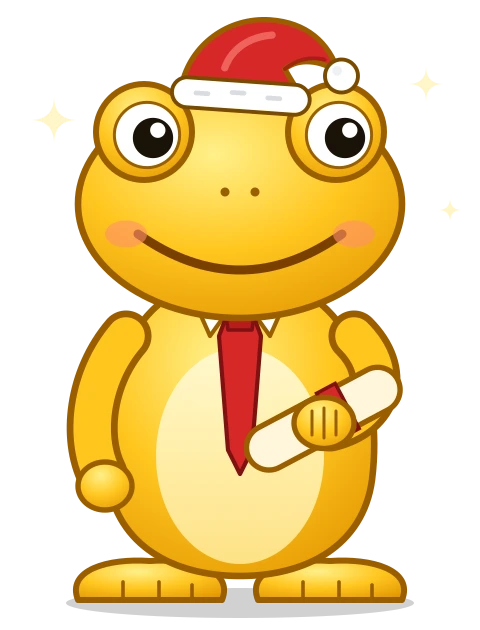
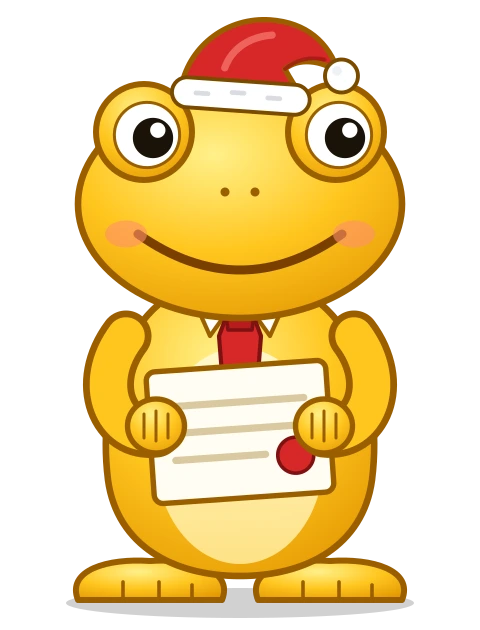
feat: small mascot holding a paper with both hands

diff --git a/backend/scripts/gen-popup-mascot.ts b/backend/scripts/gen-popup-mascot.ts
@@ -1,6 +1,6 @@
 /**
- * Dựng ảnh Cóc Pass đứng thẳng, đội nón Noel, thắt cà vạt, tay cầm cuộn bằng (dáng giống tượng linh vật FPT): frontend/public/promo/mascot-corner.webp (nền trong suốt).
- * Đế chân nằm ở y = FEET_Y (toạ độ ảnh 160x210): popup đặt ảnh sao cho đế chân đứng đúng trên mép trên của hộp thoại.
+ * Dựng ảnh Cóc Pass đứng thẳng, đội nón Noel, thắt cà vạt, hai tay giữ tờ giấy (dáng giống tượng linh vật FPT): frontend/public/promo/mascot-corner.webp (nền trong suốt).
+ * Đế chân nằm giữa đáy ảnh (toạ độ 160x210, FEET_Y): popup cho ảnh chạy quanh viền hộp thoại với điểm neo là đáy giữa của ảnh.
  * Chạy lại:  npx tsx scripts/gen-popup-mascot.ts
  */
 import fs from "node:fs/promises";
@@ -30,7 +30,6 @@ const svg = `<svg xmlns="http://www.w3.org/2000/svg" width="${W * 3}" height="${
     <linearGradient id="belly" x1="0" y1="0" x2="0" y2="1"><stop offset="0" stop-color="#fff9d0"/><stop offset="1" stop-color="#ffe58c"/></linearGradient>
   </defs>
   <ellipse cx="80" cy="${FEET_Y + 1}" rx="58" ry="5" fill="#000" opacity=".18"/>
-  ${sparkle(18, 40, 8)}${sparkle(142, 28, 6)}${sparkle(150, 70, 4)}
   ${foot(50)}${foot(110)}
   <!-- thân + bụng -->
   <path d="M80 92C44 92 32 128 36 160C39 182 58 192 80 192C102 192 121 182 124 160C128 128 116 92 80 92Z" fill="url(#gold)" ${sw(2.2)}/>
@@ -39,9 +38,6 @@ const svg = `<svg xmlns="http://www.w3.org/2000/svg" width="${W * 3}" height="${
   <path d="M80 98L62 94L70 112Z M80 98L98 94L90 112Z" fill="#fff" ${sw(1.4)}/>
   <path d="M76 104H84L87 112L84 150L80 158L76 150L73 112Z" fill="#d62828" stroke="#7f1212" stroke-width="1.4" stroke-linejoin="round"/>
   <path d="M75 103H85L84 110H76Z" fill="#b71c1c" stroke="#7f1212" stroke-width="1.2" stroke-linejoin="round"/>
-  <!-- tay trái buông dọc thân -->
-  <path d="M42 112C30 126 28 146 34 158" fill="none" ${sw(17)}/><path d="M42 112C30 126 28 146 34 158" fill="none" stroke="#ffc61f" stroke-width="12.5" stroke-linecap="round"/>
-  <ellipse cx="35" cy="162" rx="9" ry="8" fill="url(#gold)" ${sw(1.8)}/>
   <!-- đầu -->
   <ellipse cx="80" cy="68" rx="54" ry="38" fill="url(#gold)" ${sw(2.2)}/>
   ${eye(48, 44, 16)}${eye(112, 44, 16)}
@@ -49,11 +45,14 @@ const svg = `<svg xmlns="http://www.w3.org/2000/svg" width="${W * 3}" height="${
   <path d="M46 78Q80 102 114 78" fill="none" stroke="#7a3f00" stroke-width="3" stroke-linecap="round"/>
   <ellipse cx="42" cy="78" rx="7" ry="4.5" fill="#ff8f6b" opacity=".6"/><ellipse cx="118" cy="78" rx="7" ry="4.5" fill="#ff8f6b" opacity=".6"/>
   ${santaHat(80, 36, 1, 4)}
-  <!-- tay phải co lại cầm cuộn bằng buộc nơ đỏ -->
-  <path d="M118 112C130 124 126 138 110 142" fill="none" ${sw(17)}/><path d="M118 112C130 124 126 138 110 142" fill="none" stroke="#ffc61f" stroke-width="12.5" stroke-linecap="round"/>
-  <g transform="rotate(-28 108 140)"><rect x="80" y="132" width="56" height="15" rx="7.5" fill="#fff6dc" ${sw(1.8)}/><rect x="110" y="131" width="7" height="17" fill="#d62828" stroke="#7f1212" stroke-width="1.2"/></g>
-  <ellipse cx="108" cy="141" rx="10" ry="8.5" fill="url(#gold)" ${sw(1.8)}/>
-  <path d="M104 137V145M108 136V146M112 137V145" fill="none" ${sw(1)}/>
+  <!-- hai tay giữ tờ giấy trước bụng -->
+  <g transform="rotate(-4 80 144)"><rect x="50" y="122" width="60" height="44" rx="3" fill="#fffdf3" ${sw(1.8)}/>
+  <path d="M58 134H102M58 143H102M58 152H88" fill="none" stroke="#d9c9a0" stroke-width="2.4" stroke-linecap="round"/>
+  <circle cx="98" cy="153" r="6" fill="#d62828" stroke="#7f1212" stroke-width="1.2"/></g>
+  <path d="M42 112C30 128 38 146 52 144" fill="none" ${sw(17)}/><path d="M42 112C30 128 38 146 52 144" fill="none" stroke="#ffc61f" stroke-width="12.5" stroke-linecap="round"/>
+  <path d="M118 112C130 128 122 146 108 144" fill="none" ${sw(17)}/><path d="M118 112C130 128 122 146 108 144" fill="none" stroke="#ffc61f" stroke-width="12.5" stroke-linecap="round"/>
+  <ellipse cx="52" cy="142" rx="9.5" ry="9" fill="url(#gold)" ${sw(1.8)}/><path d="M48 138V146M52 137V147M56 138V146" fill="none" ${sw(1)}/>
+  <ellipse cx="108" cy="142" rx="9.5" ry="9" fill="url(#gold)" ${sw(1.8)}/><path d="M104 138V146M108 137V147M112 138V146" fill="none" ${sw(1)}/>
 </svg>`;
 
 void (async () => {
